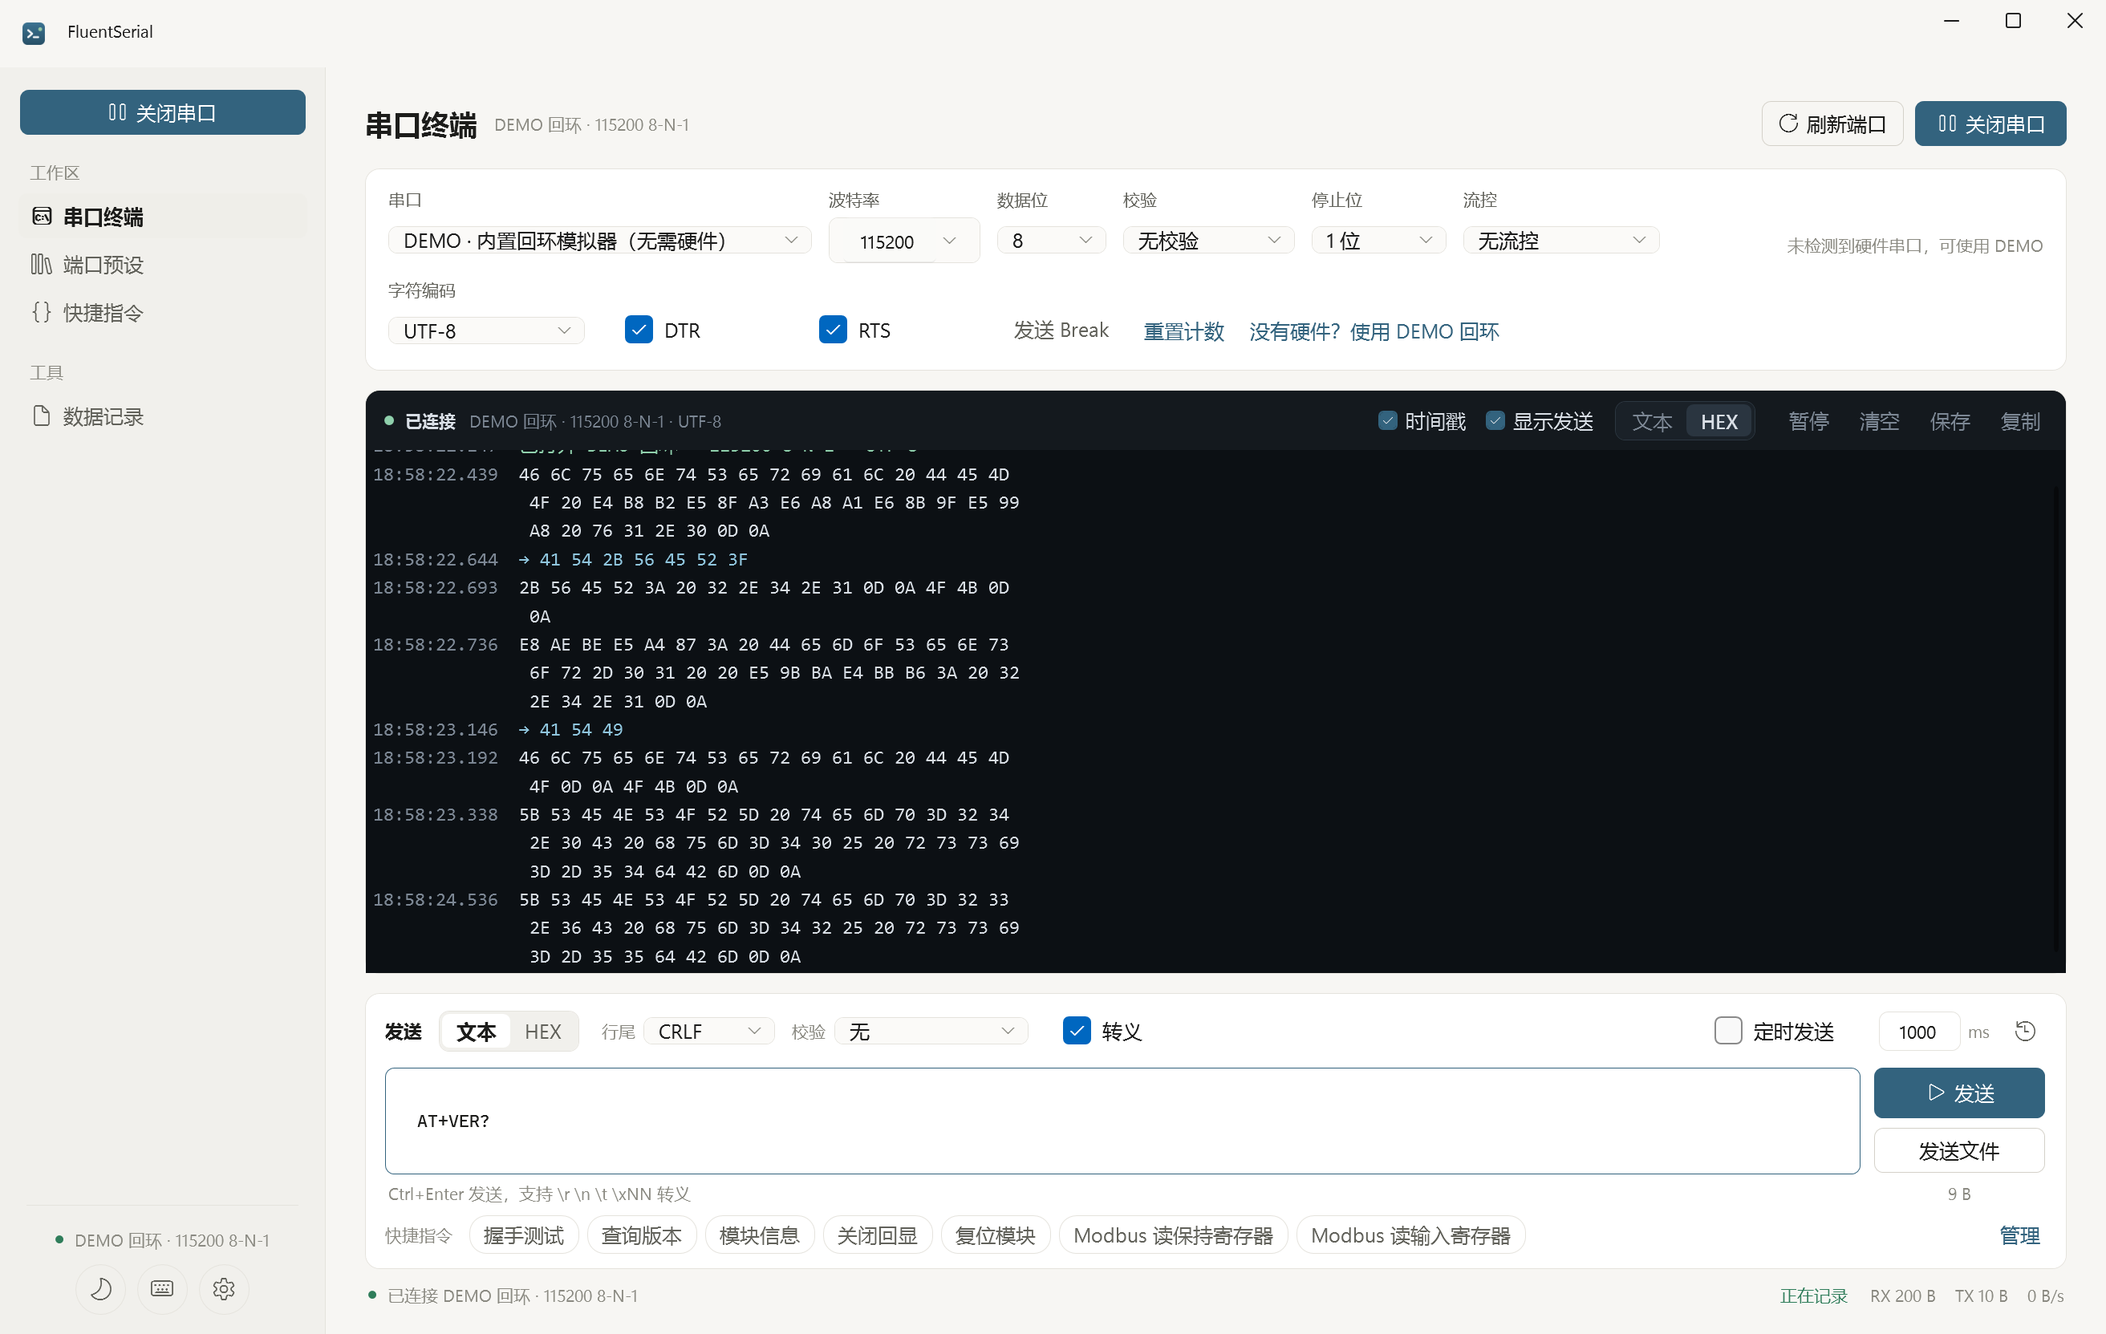
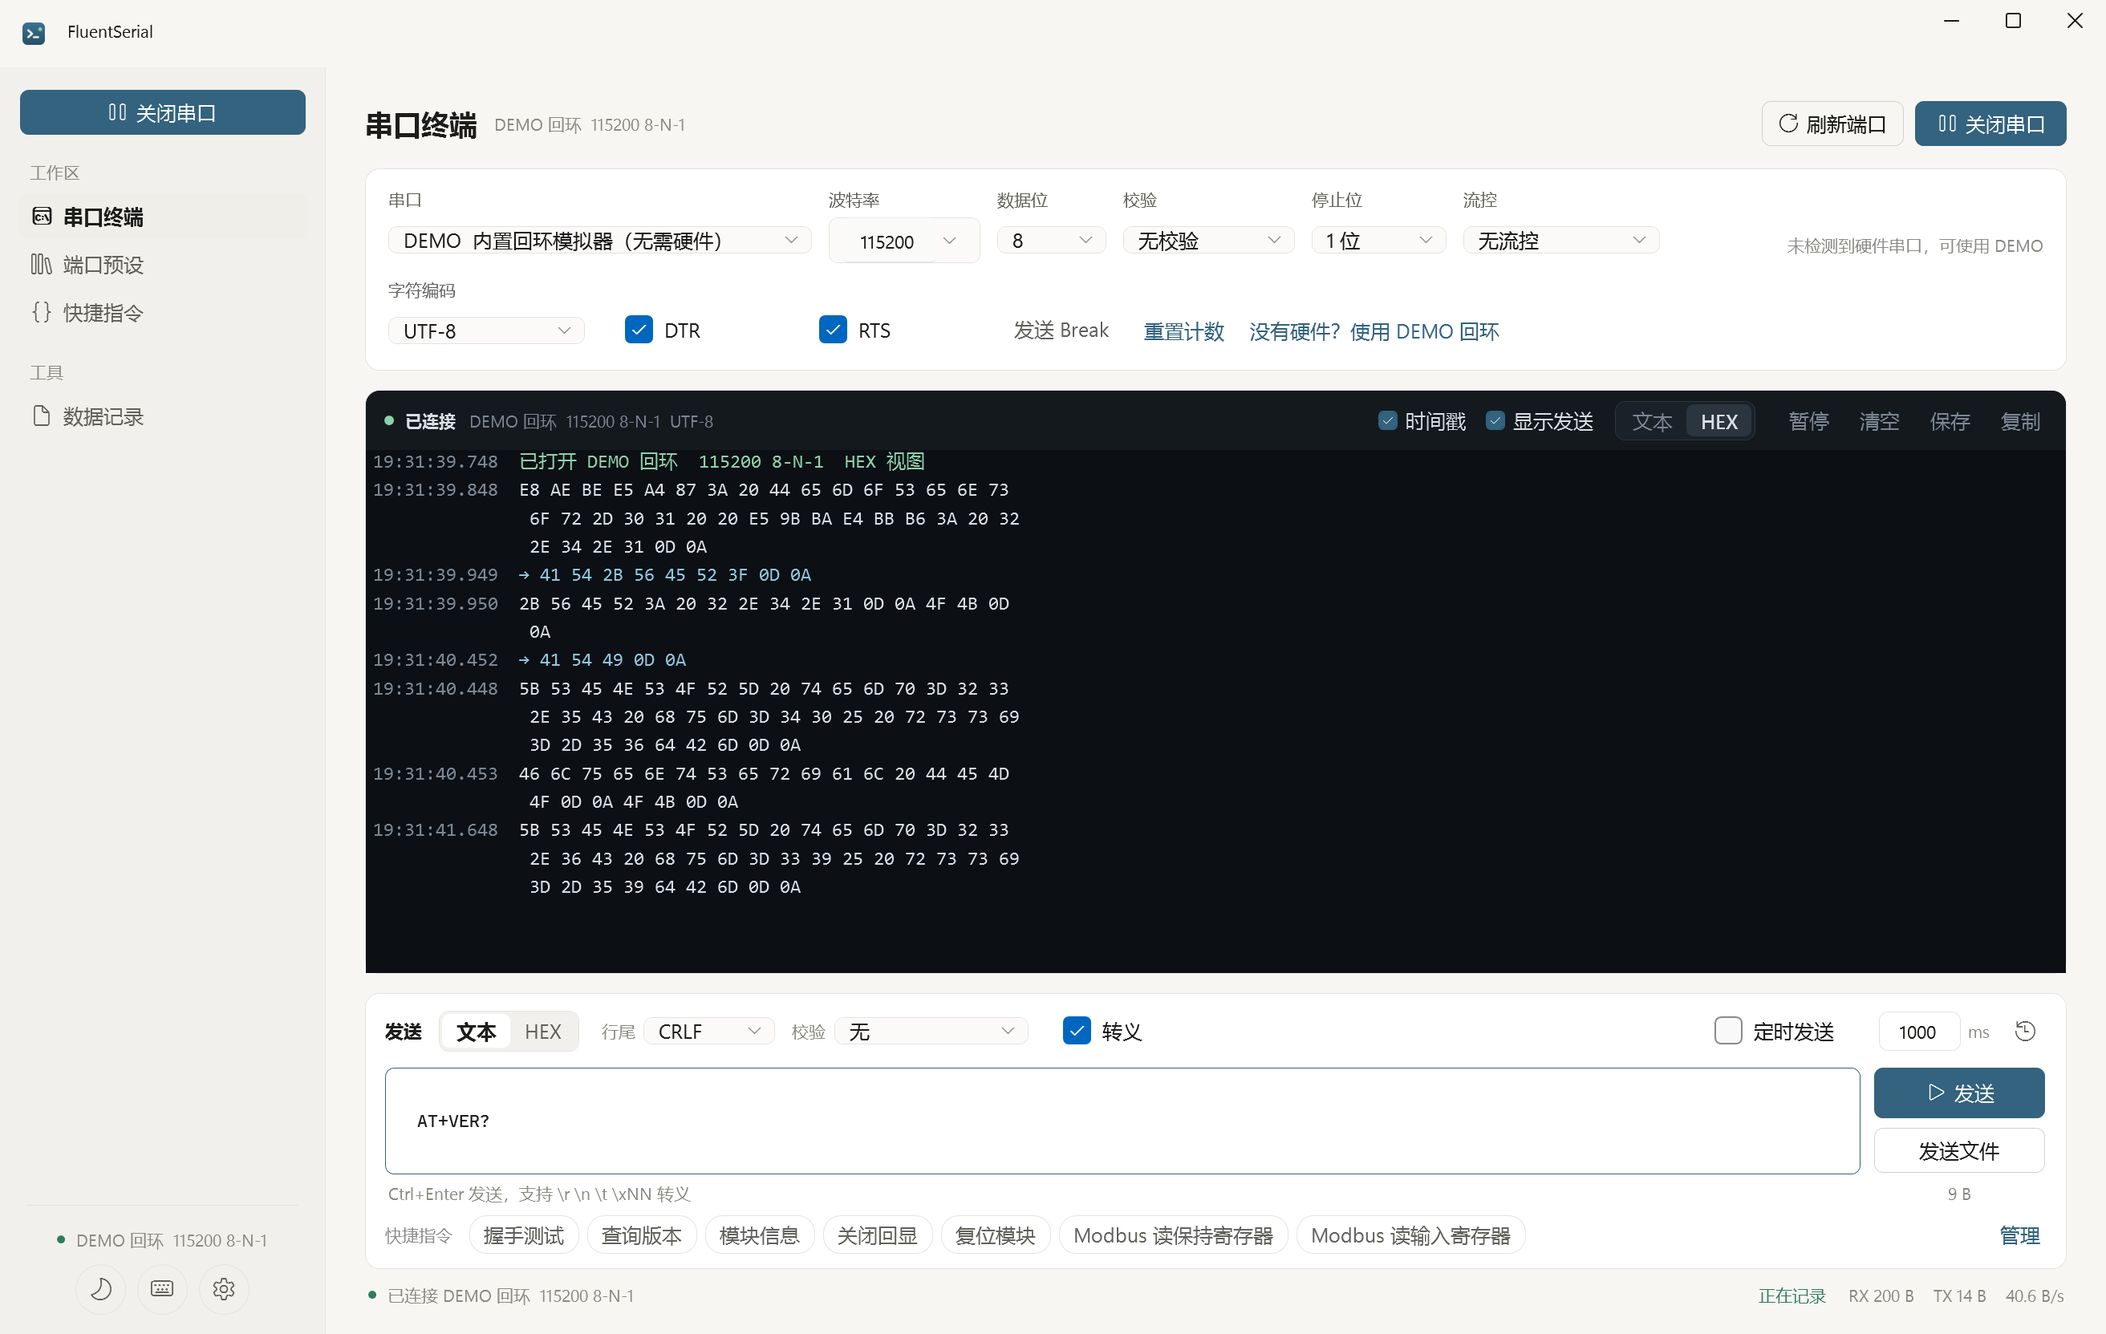
fix: address QA findings (start.cmd, IME Enter, global shortcuts, docs consistency)

diff --git a/native/FluentSerial/Dialogs/ShortcutsDialog.xaml b/native/FluentSerial/Dialogs/ShortcutsDialog.xaml
@@ -40,6 +40,11 @@
                     </Grid>
                     <Border Style="{StaticResource HairlineStyle}" />
                     <Grid Height="34">
+                        <TextBlock Text="保存接收控制台" VerticalAlignment="Center" Style="{StaticResource BodyTextStyle}" />
+                        <TextBlock Text="Ctrl + S" HorizontalAlignment="Right" VerticalAlignment="Center" Style="{StaticResource MonoTextStyle}" />
+                    </Grid>
+                    <Border Style="{StaticResource HairlineStyle}" />
+                    <Grid Height="34">
                         <TextBlock Text="刷新串口列表" VerticalAlignment="Center" Style="{StaticResource BodyTextStyle}" />
                         <TextBlock Text="F5" HorizontalAlignment="Right" VerticalAlignment="Center" Style="{StaticResource MonoTextStyle}" />
                     </Grid>

diff --git a/native/FluentSerial/Features/Terminal/TerminalPage.xaml.cs b/native/FluentSerial/Features/Terminal/TerminalPage.xaml.cs
@@ -382,7 +382,7 @@ public partial class TerminalPage : UserControl, IActivatablePage
             options.RememberIn(Settings);
             AppServices.Store.Save();
             ResetConsole();
-            AddSystemLine($"已打开 {AppServices.Serial.PortLabel} · {AppServices.Serial.ParamsLabel} · {FormatText.EncodingLabel(_encodingName)}", ConsoleTone.Success);
+            AddSystemLine($"已打开 {AppServices.Serial.PortLabel}  {AppServices.Serial.ParamsLabel}  {FormatText.EncodingLabel(_encodingName)}", ConsoleTone.Success);
             SendBox.Focus();
         }
         else if (string.IsNullOrWhiteSpace(ConnectionErrorText.Text))
@@ -623,12 +623,12 @@ public partial class TerminalPage : UserControl, IActivatablePage
         ConnectButtonGlyph.Text = open ? "\uE769" : "\uE768";
 
         HeaderStatusText.Text = open
-            ? $"{serial.PortLabel} · {serial.ParamsLabel}"
+            ? $"{serial.PortLabel}  {serial.ParamsLabel}"
             : busy ? "正在打开串口" : "选择端口后打开，或使用 DEMO 回环";
 
         ConsoleTitle.Text = open ? "已连接" : state == SerialLinkState.Error ? "连接失败" : "未连接";
         ConsoleMeta.Text = open
-            ? $"{serial.PortLabel} · {serial.ParamsLabel} · {FormatText.EncodingLabel(_encodingName)}"
+            ? $"{serial.PortLabel}  {serial.ParamsLabel}  {FormatText.EncodingLabel(_encodingName)}"
             : state == SerialLinkState.Error
                 ? serial.LastError
                 : "选择端口后打开";
@@ -636,7 +636,7 @@ public partial class TerminalPage : UserControl, IActivatablePage
         ConsoleDot.Fill = (Brush)FindResource(open ? "ConsoleOkBrush" : state == SerialLinkState.Error ? "ConsoleErrorBrush" : "ConsoleMetaBrush");
         StatusDot.Fill = (Brush)FindResource(open ? "AppSuccessBrush" : state == SerialLinkState.Error ? "AppDangerBrush" : "AppTextTertiaryBrush");
         StatusText.Text = open
-            ? $"已连接 {serial.PortLabel} · {serial.ParamsLabel}"
+            ? $"已连接 {serial.PortLabel}  {serial.ParamsLabel}"
             : state == SerialLinkState.Error ? "串口异常，请检查连接" : "未连接串口";
 
         if (open) ConnectionErrorText.Visibility = Visibility.Collapsed;
@@ -826,7 +826,7 @@ public partial class TerminalPage : UserControl, IActivatablePage
         if (_paused)
         {
             if (ConsoleMeta is not null)
-                ConsoleMeta.Text = $"已暂停 · 缓冲 {_pendingLines.Count} 行";
+                ConsoleMeta.Text = $"已暂停  缓冲 {_pendingLines.Count} 行";
             return;
         }
 
@@ -1114,7 +1114,7 @@ public partial class TerminalPage : UserControl, IActivatablePage
         PauseButton.Content = _paused ? "继续" : "暂停";
         if (_paused)
         {
-            ConsoleMeta.Text = $"已暂停 · 缓冲 {_pendingLines.Count} 行";
+            ConsoleMeta.Text = $"已暂停  缓冲 {_pendingLines.Count} 行";
         }
         else
         {
@@ -1184,7 +1184,8 @@ public partial class TerminalPage : UserControl, IActivatablePage
             FileName = $"serial-console-{DateTime.Now:yyyyMMdd-HHmmss}.log",
             Filter = "日志文件 (*.log)|*.log|文本文件 (*.txt)|*.txt|所有文件 (*.*)|*.*",
             DefaultExt = ".log",
-            AddExtension = true
+            AddExtension = true,
+            InitialDirectory = AppServices.Paths.ExportsDirectory
         };
         if (dialog.ShowDialog(Window.GetWindow(this)) != true) return;
         try
@@ -1226,6 +1227,8 @@ public partial class TerminalPage : UserControl, IActivatablePage
 
     private void SendBox_PreviewKeyDown(object sender, KeyEventArgs e)
     {
+        // Let the IME consume Enter while a Chinese/Japanese composition is active.
+        if (e.Key == Key.ImeProcessed || e.ImeProcessedKey == Key.Enter) return;
         if (e.Key == Key.Enter && Keyboard.Modifiers == ModifierKeys.Control)
         {
             DoSend();
@@ -1482,7 +1485,7 @@ public partial class TerminalPage : UserControl, IActivatablePage
                 Content = command.Name,
                 Tag = command,
                 Margin = new Thickness(0, 0, 6, 0),
-                ToolTip = $"{command.Summary}\n{command.ModeLabel} · 行尾 {command.EndingLabel}"
+                ToolTip = $"{command.Summary}\n{command.ModeLabel}  行尾 {command.EndingLabel}"
             };
             button.Click += QuickCommand_Click;
             QuickCommandPanel.Children.Add(button);
@@ -1518,8 +1521,12 @@ public partial class TerminalPage : UserControl, IActivatablePage
             return;
         }
 
-        var bytes = SerialCodec.BuildPayload(command.Payload, command.Mode, command.Ending, command.Checksum,
-            _encodingName, Settings.UseEscapes);
+        if (!SerialCodec.TryBuildPayload(command.Payload, command.Mode, command.Ending, command.Checksum,
+                _encodingName, Settings.UseEscapes, out var bytes, out var error))
+        {
+            SetTransientHint($"指令“{command.Name}”无法发送：{error}", error: true);
+            return;
+        }
         if (AppServices.Serial.Send(bytes))
             SetTransientHint($"已发送指令“{command.Name}”（{bytes.Length} 字节）");
         else
@@ -1543,17 +1550,29 @@ public partial class TerminalPage : UserControl, IActivatablePage
         TxTextRadio.IsChecked = true;
         SelectChoice(EndingBox, LineEnding.CrLf);
         await Task.Delay(450);
-        SendRawForCapture(SerialCodec.EncodeText("AT+VER?", "ascii", false));
+        if (RxHexRadio.IsChecked == true)
+        {
+            // Keep the HEX screenshot focused on one exchange instead of a scrolled history.
+            ResetConsole();
+            AddSystemLine($"已打开 {AppServices.Serial.PortLabel}  {AppServices.Serial.ParamsLabel}  HEX 视图", ConsoleTone.Success);
+            await Task.Delay(200);
+        }
+        SendRawForCapture("AT+VER?");
         await Task.Delay(500);
-        SendRawForCapture(SerialCodec.EncodeText("ATI", "ascii", false));
+        SendRawForCapture("ATI");
         await Task.Delay(500);
         UpdateSendSize();
     }
 
-    private void SendRawForCapture(byte[] body)
+    private void SendRawForCapture(string text)
     {
         if (!AppServices.Serial.IsOpen) return;
-        AppServices.Serial.Send(body);
+        var body = SerialCodec.EncodeText(text, "ascii", false);
+        var ending = SerialCodec.LineEndingBytes(LineEnding.CrLf);
+        var payload = new byte[body.Length + ending.Length];
+        body.CopyTo(payload, 0);
+        ending.CopyTo(payload, body.Length);
+        AppServices.Serial.Send(payload);
     }
 
     // ---------------------------------------------------------------- UI smoke hooks
@@ -1584,4 +1603,10 @@ public partial class TerminalPage : UserControl, IActivatablePage
     }
 
     public void CloseForSmoke() => AppServices.Serial.Close("UI 冒烟测试");
+
+    /// <summary>Global Ctrl+L invokes the same clear flow as the console toolbar button.</summary>
+    public void ClearConsoleFromShortcut() => ClearConsole_Click(this, new RoutedEventArgs());
+
+    /// <summary>Global Ctrl+S invokes the same save flow as the console toolbar button.</summary>
+    public void SaveConsoleFromShortcut() => SaveConsole_Click(this, new RoutedEventArgs());
 }

diff --git a/native/FluentSerial/MainWindow.xaml.cs b/native/FluentSerial/MainWindow.xaml.cs
@@ -193,7 +193,7 @@ public partial class MainWindow : FluentWindow
             case SerialLinkState.Open:
                 SidebarConnectLabel.Text = "关闭串口";
                 SidebarConnectGlyph.Text = "\uE769";
-                SidebarStatusText.Text = $"{serial.PortLabel} · {serial.ParamsLabel}";
+                SidebarStatusText.Text = $"{serial.PortLabel}  {serial.ParamsLabel}";
                 SidebarStatusDot.Fill = (Brush)FindResource("AppSuccessBrush");
                 break;
             case SerialLinkState.Opening:
@@ -247,6 +247,16 @@ public partial class MainWindow : FluentWindow
                 case Key.O:
                     Navigate("terminal");
                     Terminal?.ToggleConnect();
+                    e.Handled = true;
+                    return;
+                case Key.L:
+                    Navigate("terminal");
+                    Terminal?.ClearConsoleFromShortcut();
+                    e.Handled = true;
+                    return;
+                case Key.S:
+                    Navigate("terminal");
+                    Terminal?.SaveConsoleFromShortcut();
                     e.Handled = true;
                     return;
             }

diff --git a/native/FluentSerial/App.xaml.cs b/native/FluentSerial/App.xaml.cs
@@ -161,7 +161,9 @@ public partial class App : Application
         Window? dialog = _dialog switch
         {
             "shortcuts" => new Dialogs.ShortcutsDialog { Owner = window },
-            "preset" => new Dialogs.PresetDialog(AppServices.Data.Profiles, AppServices.Data.Profiles.FirstOrDefault(p => p.Favorite))
+            "preset" => new Dialogs.PresetDialog(AppServices.Data.Profiles,
+                AppServices.Data.Profiles.FirstOrDefault(p => p.PortName == "DEMO")
+                ?? AppServices.Data.Profiles.FirstOrDefault(p => p.Favorite))
             {
                 Owner = window
             },
@@ -243,7 +245,7 @@ public partial class App : Application
                 var rxBefore = AppServices.Serial.BytesRx;
                 var opened = await terminal.OpenDemoForSmokeAsync();
                 Check("打开 DEMO 串口", opened && AppServices.Serial.IsOpen,
-                    $"{AppServices.Serial.PortLabel} · {AppServices.Serial.State}");
+                    $"{AppServices.Serial.PortLabel}  {AppServices.Serial.State}");
 
                 await Task.Delay(700);
                 Check("接收演示数据", AppServices.Serial.BytesRx > rxBefore,

diff --git a/native/FluentSerial/Core/Models.cs b/native/FluentSerial/Core/Models.cs
@@ -264,7 +264,7 @@ public sealed class SerialSessionRecord : ObservableObject
     public string FilePath { get; set; } = string.Empty;
     public string Note { get; set; } = string.Empty;
 
-    [JsonIgnore] public string DisplayPort => string.IsNullOrWhiteSpace(ProfileName) ? PortName : $"{ProfileName} · {PortName}";
+    [JsonIgnore] public string DisplayPort => string.IsNullOrWhiteSpace(ProfileName) ? PortName : $"{ProfileName}  {PortName}";
     [JsonIgnore] public string TimeLabel => StartedAt.ToString("MM-dd HH:mm:ss");
     [JsonIgnore] public string DurationLabel => FormatText.Duration(((EndedAt ?? DateTime.Now) - StartedAt).TotalMilliseconds);
     [JsonIgnore] public string RxLabel => FormatText.Bytes(BytesRx);

diff --git a/native/FluentSerial/Core/SessionRecorder.cs b/native/FluentSerial/Core/SessionRecorder.cs
@@ -123,7 +123,7 @@ public sealed class SessionRecorder : IDisposable
         var options = _options;
         _writer.WriteLine("FluentSerial 串口会话记录");
         _writer.WriteLine($"端口: {options.PortName}{(options.IsDemo ? "（内置回环模拟器）" : string.Empty)}");
-        _writer.WriteLine($"参数: {options.ParamsLabel} · {FormatText.HandshakeLabel(options.Handshake)}");
+        _writer.WriteLine($"参数: {options.ParamsLabel}  {FormatText.HandshakeLabel(options.Handshake)}");
         if (!string.IsNullOrWhiteSpace(options.ProfileName))
             _writer.WriteLine($"配置: {options.ProfileName}");
         _writer.WriteLine($"编码: {FormatText.EncodingLabel(options.Encoding)}");

diff --git a/native/FluentSerial/Dialogs/PresetDialog.xaml.cs b/native/FluentSerial/Dialogs/PresetDialog.xaml.cs
@@ -71,7 +71,12 @@ public partial class PresetDialog : Window
         PortBox.Items.Clear();
         PortBox.Items.Add(new ComboBoxItem { Content = "自动选择", Tag = string.Empty });
         foreach (var port in SerialPortCatalog.GetPorts())
-            PortBox.Items.Add(new ComboBoxItem { Content = port.Label, Tag = port.Name });
+            PortBox.Items.Add(new ComboBoxItem
+            {
+                Content = port.IsDemo ? "DEMO 内置回环" : port.Label,
+                Tag = port.Name,
+                ToolTip = port.Label
+            });
 
         if (!string.IsNullOrWhiteSpace(preferredPort) &&
             !PortBox.Items.OfType<ComboBoxItem>()

diff --git a/native/FluentSerial/Features/Settings/SettingsPage.xaml.cs b/native/FluentSerial/Features/Settings/SettingsPage.xaml.cs
@@ -149,7 +149,7 @@ public partial class SettingsPage : UserControl, IActivatablePage
         AppServices.MainWindow?.RefreshThemeUi();
         AppServices.MainWindow?.Terminal?.ApplySettings();
         AppServices.Audit.Add(AuditLevel.Info, "settings", "更新应用设置");
-        StatusText.Text = $"已保存 · {DateTime.Now:HH:mm:ss}";
+        StatusText.Text = $"已保存  {DateTime.Now:HH:mm:ss}";
         StatusText.Foreground = (System.Windows.Media.Brush)FindResource("AppSuccessBrush");
     }
 

diff --git a/native/FluentSerial/Core/SerialContracts.cs b/native/FluentSerial/Core/SerialContracts.cs
@@ -111,7 +111,7 @@ public sealed class SerialPortInfo
     public string Name { get; }
     public string Description { get; }
     public bool IsDemo => SerialPortCatalog.IsDemo(Name);
-    public string Label => string.IsNullOrWhiteSpace(Description) ? Name : $"{Name} · {Description}";
+    public string Label => string.IsNullOrWhiteSpace(Description) ? Name : $"{Name}  {Description}";
 }
 
 /// <summary>One chunk of data or one system line in the serial console.</summary>

diff --git a/native/FluentSerial/Features/Snippets/SnippetsPage.xaml.cs b/native/FluentSerial/Features/Snippets/SnippetsPage.xaml.cs
@@ -238,6 +238,7 @@ public partial class SnippetsPage : UserControl, IActivatablePage
             Title = "导出快捷指令",
             Filter = "JSON 文件|*.json",
             DefaultExt = ".json",
+            InitialDirectory = AppServices.Paths.ExportsDirectory,
             FileName = $"fluentserial-commands-{DateTime.Now:yyyyMMdd}.json"
         };
         if (picker.ShowDialog() != true) return;

diff --git a/README.md b/README.md
@@ -19,6 +19,7 @@
 ![数据记录](docs/native/logs.png)
 ![审计事件](docs/native/logs-audit.png)
 ![设置](docs/native/settings.png)
+![深色设置](docs/native/settings-dark.png)
 ![键盘快捷键](docs/native/shortcuts.png)
 ![深色主题](docs/native/terminal-dark.png)
 
@@ -30,7 +31,7 @@
 
 ### 串口连接
 - 串口枚举带设备友好名称（SetupAPI），刷新按钮与 `F5` 热刷新
-- 波特率可编辑（1200–2000000，支持自定义），数据位 5–8、校验、停止位、流控
+- 波特率可编辑（1–4000000，常用 1200–921600），数据位 5–8、校验、停止位、流控
 - DTR / RTS 实时电平控制，`Break` 信号，收发计数随时重置
 - 端口占用、设备拔出、IO 异常均有中文错误提示，状态来自真实串口事件
 - 内置 `DEMO` 回环模拟器：欢迎信息、周期遥测、AT 指令应答，无需硬件
@@ -61,7 +62,7 @@
 
 ### 端口预设
 - 常用串口配置保存为预设，包含端口、波特率、校验、流控、DTR/RTS、编码与收发模式
-- 收藏、搜索、最近使用、使用次数排序信息
+- 收藏、搜索、最近使用时间，卡片展示编码与收发模式
 - 一键连接、编辑、删除；双击卡片直接打开终端
 
 ### 数据记录与审计
@@ -72,8 +73,8 @@
 
 ### 桌面体验
 - 浅色 / 深色 / 跟随系统主题，切换即时生效
-- 读取所有页面状态栏与 Roaming 数据目录
-- 键盘导航：`Ctrl+1..4` 切换页面，`Ctrl+O` 开关串口，`Ctrl+L` 清空，`Ctrl+,` 设置
+- 所有页面共享本地设置与 Roaming 数据目录
+- 键盘导航：`Ctrl+1..4` 切换页面，`Ctrl+O` 开关串口，`Ctrl+L` 清空控制台，`Ctrl+S` 保存控制台，`Ctrl+,` 设置
 - 原生窗口最大 / 最小 / 关闭按钮与 Per-Monitor DPI 缩放
 - 自包含单文件发布，不需要安装 .NET 运行时
 
